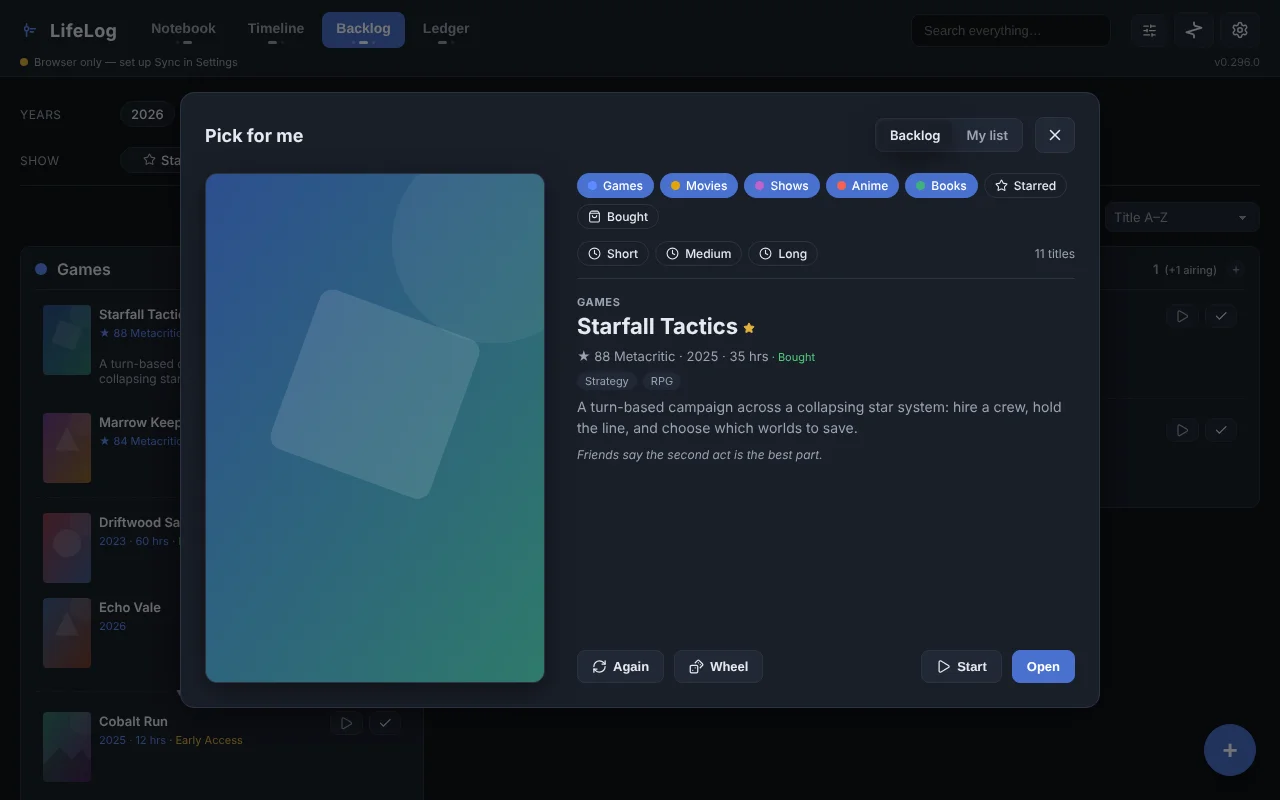
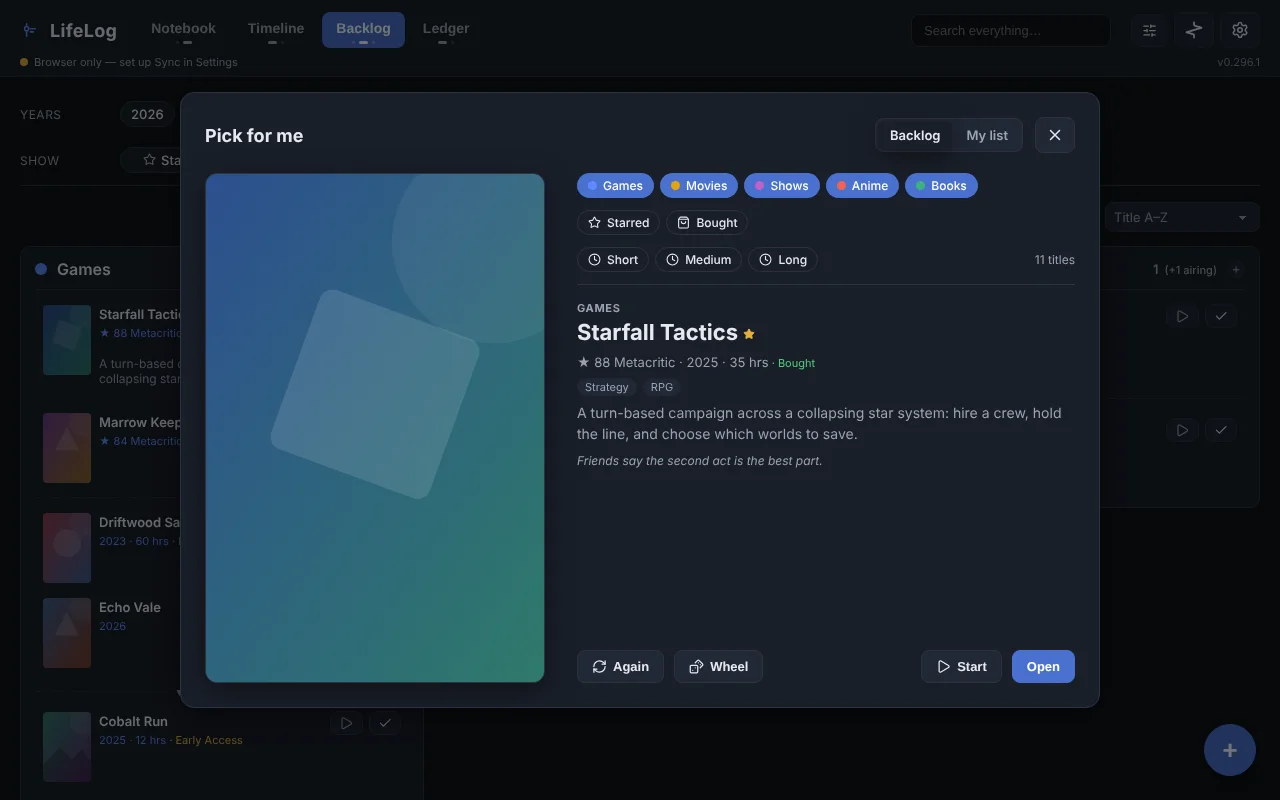
0.296.1: Pick's Starred and Bought on their own row under the categories
Claude-Session: https://claude.ai/code/session_01CFeKrkC4mKsqNkJvtaqqrz

diff --git a/index.html b/index.html
@@ -5,7 +5,7 @@
   <meta http-equiv="Content-Security-Policy" content="default-src 'self'; script-src 'self'; style-src 'self'; img-src 'self' data: blob: https:; connect-src 'self' https: http://localhost:* http://127.0.0.1:*; font-src 'self'; object-src 'none'; frame-src 'none'; base-uri 'self'; form-action 'self'; manifest-src 'self'; worker-src 'self'" />
   <meta name="viewport" content="width=device-width, initial-scale=1.0" />
   <title>LifeLog</title>
-  <link rel="stylesheet" href="src/styles.css?v=0.296.0" />
+  <link rel="stylesheet" href="src/styles.css?v=0.296.1" />
   <link rel="manifest" href="manifest.json" />
   <meta name="theme-color" content="#11141a" />
   <link rel="icon" href="icon.svg" type="image/svg+xml" />
@@ -2294,38 +2294,38 @@
     </div>
   </div>
 
-  <script defer src="src/errlog.js?v=0.296.0"></script>
-  <script defer src="src/headless.js?v=0.296.0"></script>
-  <script defer src="src/platform.js?v=0.296.0"></script>
-  <script defer src="src/icons.js?v=0.296.0"></script>
-  <script defer src="src/jobs.js?v=0.296.0"></script>
-  <script defer src="src/reconcile.js?v=0.296.0"></script>
-  <script defer src="src/qr.js?v=0.296.0"></script>
-  <script defer src="src/media.js?v=0.296.0"></script>
-  <script defer src="src/merge.js?v=0.296.0"></script>
-  <script defer src="src/storage.js?v=0.296.0"></script>
-  <script defer src="src/finance.js?v=0.296.0"></script>
-  <script defer src="src/settings.js?v=0.296.0"></script>
-  <script defer src="src/wheel.js?v=0.296.0"></script>
-  <script defer src="src/backlog.js?v=0.296.0"></script>
-  <script defer src="src/journal.js?v=0.296.0"></script>
-  <script defer src="src/markdown.js?v=0.296.0"></script>
-  <script defer src="src/notes.js?v=0.296.0"></script>
-  <script defer src="src/docimport.js?v=0.296.0"></script>
-  <script defer src="src/io.js?v=0.296.0"></script>
-  <script defer src="src/sync.js?v=0.296.0"></script>
-  <script defer src="src/habits.js?v=0.296.0"></script>
-  <script defer src="src/vendor/rough.js?v=0.296.0"></script>
-  <script defer src="src/boards.js?v=0.296.0"></script>
-  <script defer src="src/travel.js?v=0.296.0"></script>
-  <script defer src="src/recap.js?v=0.296.0"></script>
-  <script defer src="src/reminders.js?v=0.296.0"></script>
-  <script defer src="src/alerts.js?v=0.296.0"></script>
-  <script defer src="src/widgets.js?v=0.296.0"></script>
-  <script defer src="src/share.js?v=0.296.0"></script>
-  <script defer src="src/search.js?v=0.296.0"></script>
-  <script defer src="src/letterboxd.js?v=0.296.0"></script>
-  <script defer src="src/payments.js?v=0.296.0"></script>
-  <script defer src="src/app.js?v=0.296.0"></script>
+  <script defer src="src/errlog.js?v=0.296.1"></script>
+  <script defer src="src/headless.js?v=0.296.1"></script>
+  <script defer src="src/platform.js?v=0.296.1"></script>
+  <script defer src="src/icons.js?v=0.296.1"></script>
+  <script defer src="src/jobs.js?v=0.296.1"></script>
+  <script defer src="src/reconcile.js?v=0.296.1"></script>
+  <script defer src="src/qr.js?v=0.296.1"></script>
+  <script defer src="src/media.js?v=0.296.1"></script>
+  <script defer src="src/merge.js?v=0.296.1"></script>
+  <script defer src="src/storage.js?v=0.296.1"></script>
+  <script defer src="src/finance.js?v=0.296.1"></script>
+  <script defer src="src/settings.js?v=0.296.1"></script>
+  <script defer src="src/wheel.js?v=0.296.1"></script>
+  <script defer src="src/backlog.js?v=0.296.1"></script>
+  <script defer src="src/journal.js?v=0.296.1"></script>
+  <script defer src="src/markdown.js?v=0.296.1"></script>
+  <script defer src="src/notes.js?v=0.296.1"></script>
+  <script defer src="src/docimport.js?v=0.296.1"></script>
+  <script defer src="src/io.js?v=0.296.1"></script>
+  <script defer src="src/sync.js?v=0.296.1"></script>
+  <script defer src="src/habits.js?v=0.296.1"></script>
+  <script defer src="src/vendor/rough.js?v=0.296.1"></script>
+  <script defer src="src/boards.js?v=0.296.1"></script>
+  <script defer src="src/travel.js?v=0.296.1"></script>
+  <script defer src="src/recap.js?v=0.296.1"></script>
+  <script defer src="src/reminders.js?v=0.296.1"></script>
+  <script defer src="src/alerts.js?v=0.296.1"></script>
+  <script defer src="src/widgets.js?v=0.296.1"></script>
+  <script defer src="src/share.js?v=0.296.1"></script>
+  <script defer src="src/search.js?v=0.296.1"></script>
+  <script defer src="src/letterboxd.js?v=0.296.1"></script>
+  <script defer src="src/payments.js?v=0.296.1"></script>
+  <script defer src="src/app.js?v=0.296.1"></script>
 </body>
 </html>

diff --git a/src/styles.css b/src/styles.css
@@ -2205,8 +2205,8 @@ a.game-times:hover .game-time-value { text-decoration: underline; }
    inherit for it, and the padding of a chip rather than a control. */
 .pick-cat { font-family: inherit; padding: var(--space-4) var(--space-10); font-size: var(--fs-xs); display: inline-flex; align-items: center; gap: var(--space-6); }
 .pick-cat svg { width: 13px; height: 13px; }
-/* Length chips start a row of their own: a different question from the
-   categories and the moods above them. */
+/* Categories, then Starred and Bought, then length: each group a row of
+   its own, since each asks a different question (0.296.1). */
 .pick-scope-break { flex-basis: 100%; height: 0; }
 .pick-scope-count { margin-left: auto; font-size: var(--fs-xs); color: var(--text-dim); }
 /* The pick: a portrait cover beside what's known about it, as a row of the

diff --git a/src/app.js b/src/app.js
@@ -164,7 +164,7 @@
   // hideWidgets keeps notes and to-dos out of the widgets while locked.
   const DEFAULT_PRIVACY = { enabled: false, pinHash: null, pinSalt: null, pinKdf: null, credentialId: null, graceMinutes: 0, lastUnlockAt: 0,
     relockMinutes: 5, fails: 0, lockedUntil: 0, bioOnOpen: true, privacyScreen: false, hideWidgets: false };
-  const APP_VERSION = "0.296.0"; // bump with each shipped change so it's visible in Settings
+  const APP_VERSION = "0.296.1"; // bump with each shipped change so it's visible in Settings
 
   const CATEGORY_PALETTE = ["#e23b3b", "#e2723b", "#e2b23b", "#9fe23b", "#3be25a", "#3bb2e2", "#5b8cff", "#723be2", "#b23be2", "#e23b72", "#7a8a99"];
 

diff --git a/sw.js b/sw.js
@@ -12,7 +12,7 @@
 // touched — intercepting those and falling back to index.html on failure
 // previously turned a real network/CORS error into a fake 200 OK full of HTML,
 // masking the actual failure from the app's own error handling.
-const CACHE = "lifelog-v253";
+const CACHE = "lifelog-v254";
 // Note: lifelog.json is intentionally NOT precached — it isn't deployed (your
 // data is private). The app fetches it at runtime with a graceful fallback.
 const ASSETS = [

diff --git a/src/backlog.js b/src/backlog.js
@@ -1337,6 +1337,9 @@
         c.appendChild(dot);
         c.appendChild(document.createTextNode(name));
       }
+      // Starred and Bought are moods, not categories (Daniel, 0.296.1), so
+      // they start a row of their own, as the length chips do.
+      wrap.appendChild(el("span", "pick-scope-break"));
     }
     chip(pickStarred, () => { pickStarred = !pickStarred; })
       .appendChild(window.LifeLogIcons.labelled("star", "Starred"));

diff --git a/NOTES.md b/NOTES.md
@@ -41,6 +41,9 @@ what was decided against and why.
     each unit on its own (`LENGTH_BANDS`) and never converts between them.
     A film is always Short, on purpose: it fits an evening. Unknown length
     drops out once a chip is on. The cut points are a guess, not his.
+  - **Three rows (0.296.1).** Daniel: Starred and Bought "should be below
+    the categories, not part of them, like time is not". Each group starts
+    with a `.pick-scope-break`.
   - **Bought** now follows the Show row's rule (a category with Bought off
     passes), where "Bought only" used to drop those.
   - **Bridge:** `lifelog_pick` (same eligibility and chips, plain random:

diff --git a/CHANGELOG.md b/CHANGELOG.md
@@ -4,6 +4,12 @@ All notable changes to LifeLog are documented here. The version number
 always matches `APP_VERSION` in `src/app.js`, shown as "LifeLog vX.Y.Z" at
 the bottom of Settings.
 
+## [0.296.1] - 2026-10-30
+
+### Changed
+- **Pick's chips in three rows.** Starred and Bought sit on a row of their
+  own under the categories, and the length chips under those.
+
 ## [0.296.0] - 2026-10-30
 
 ### Changed
